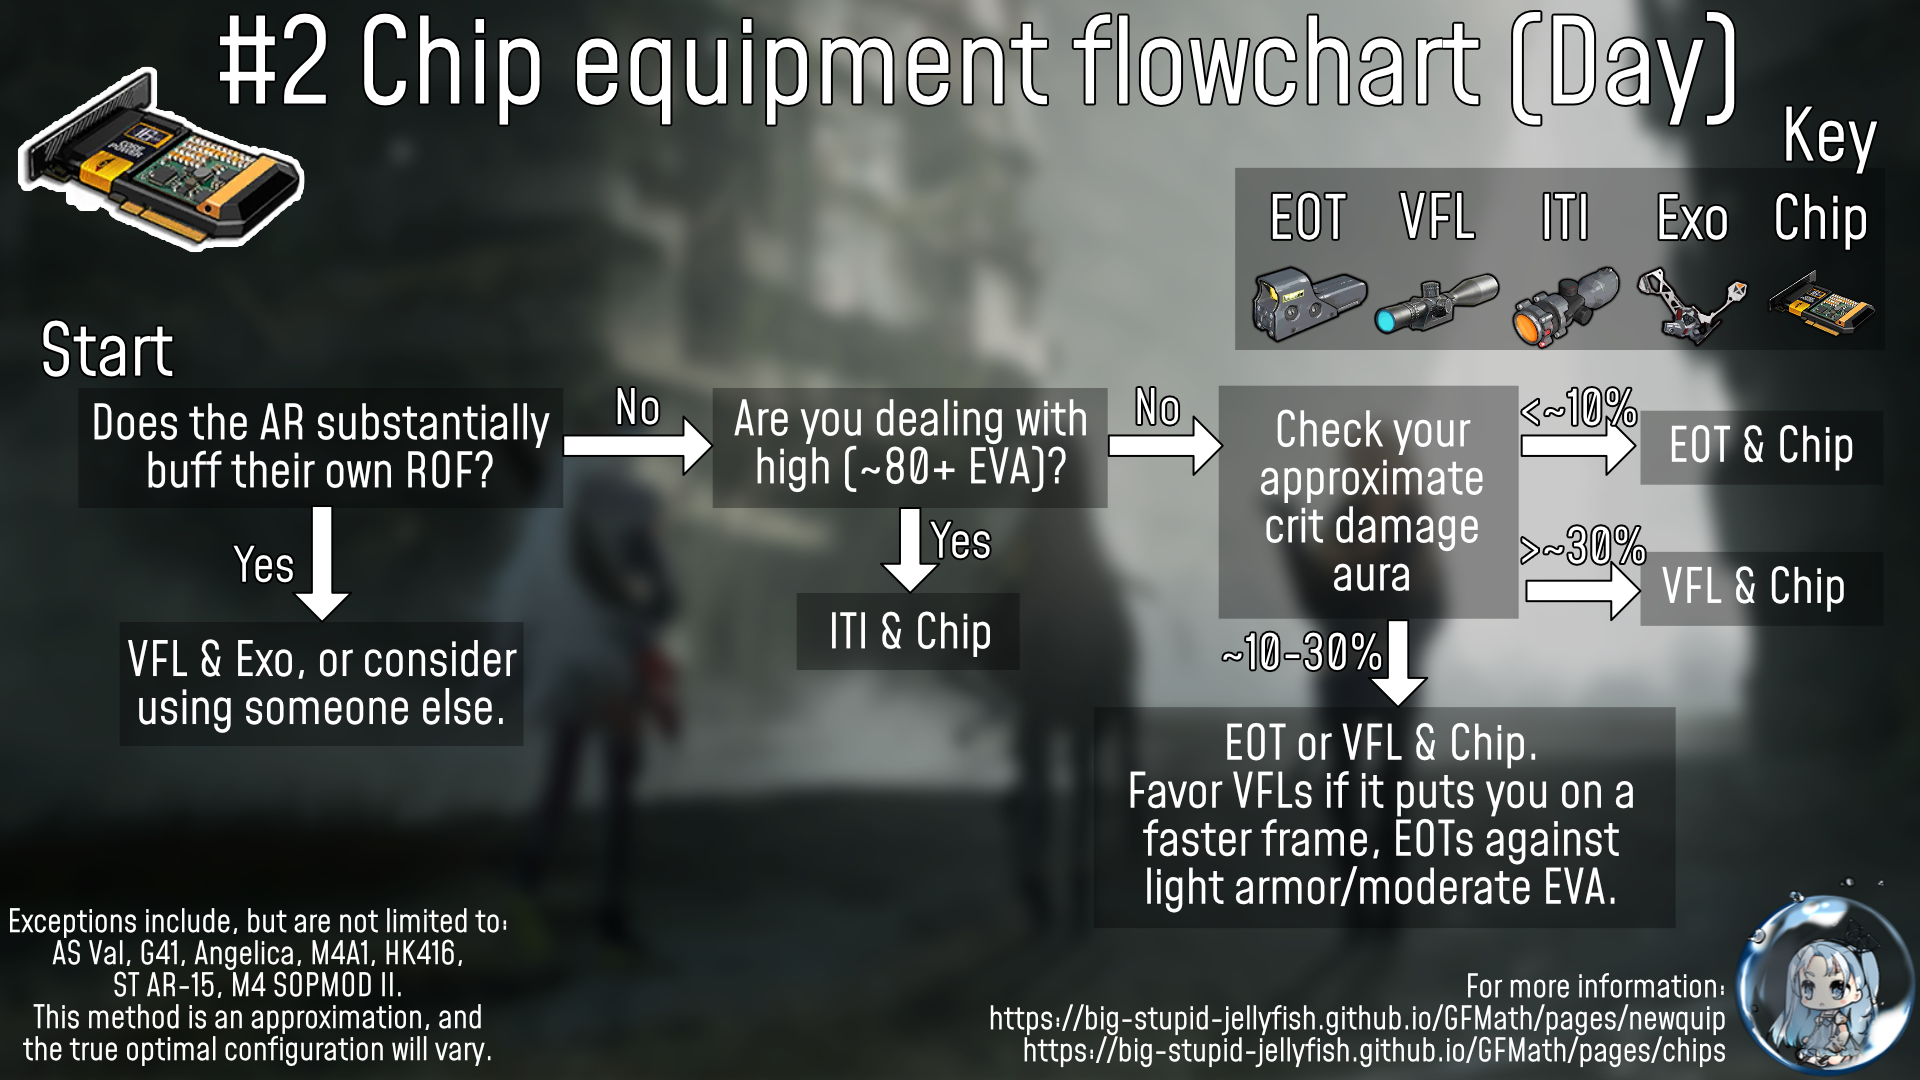
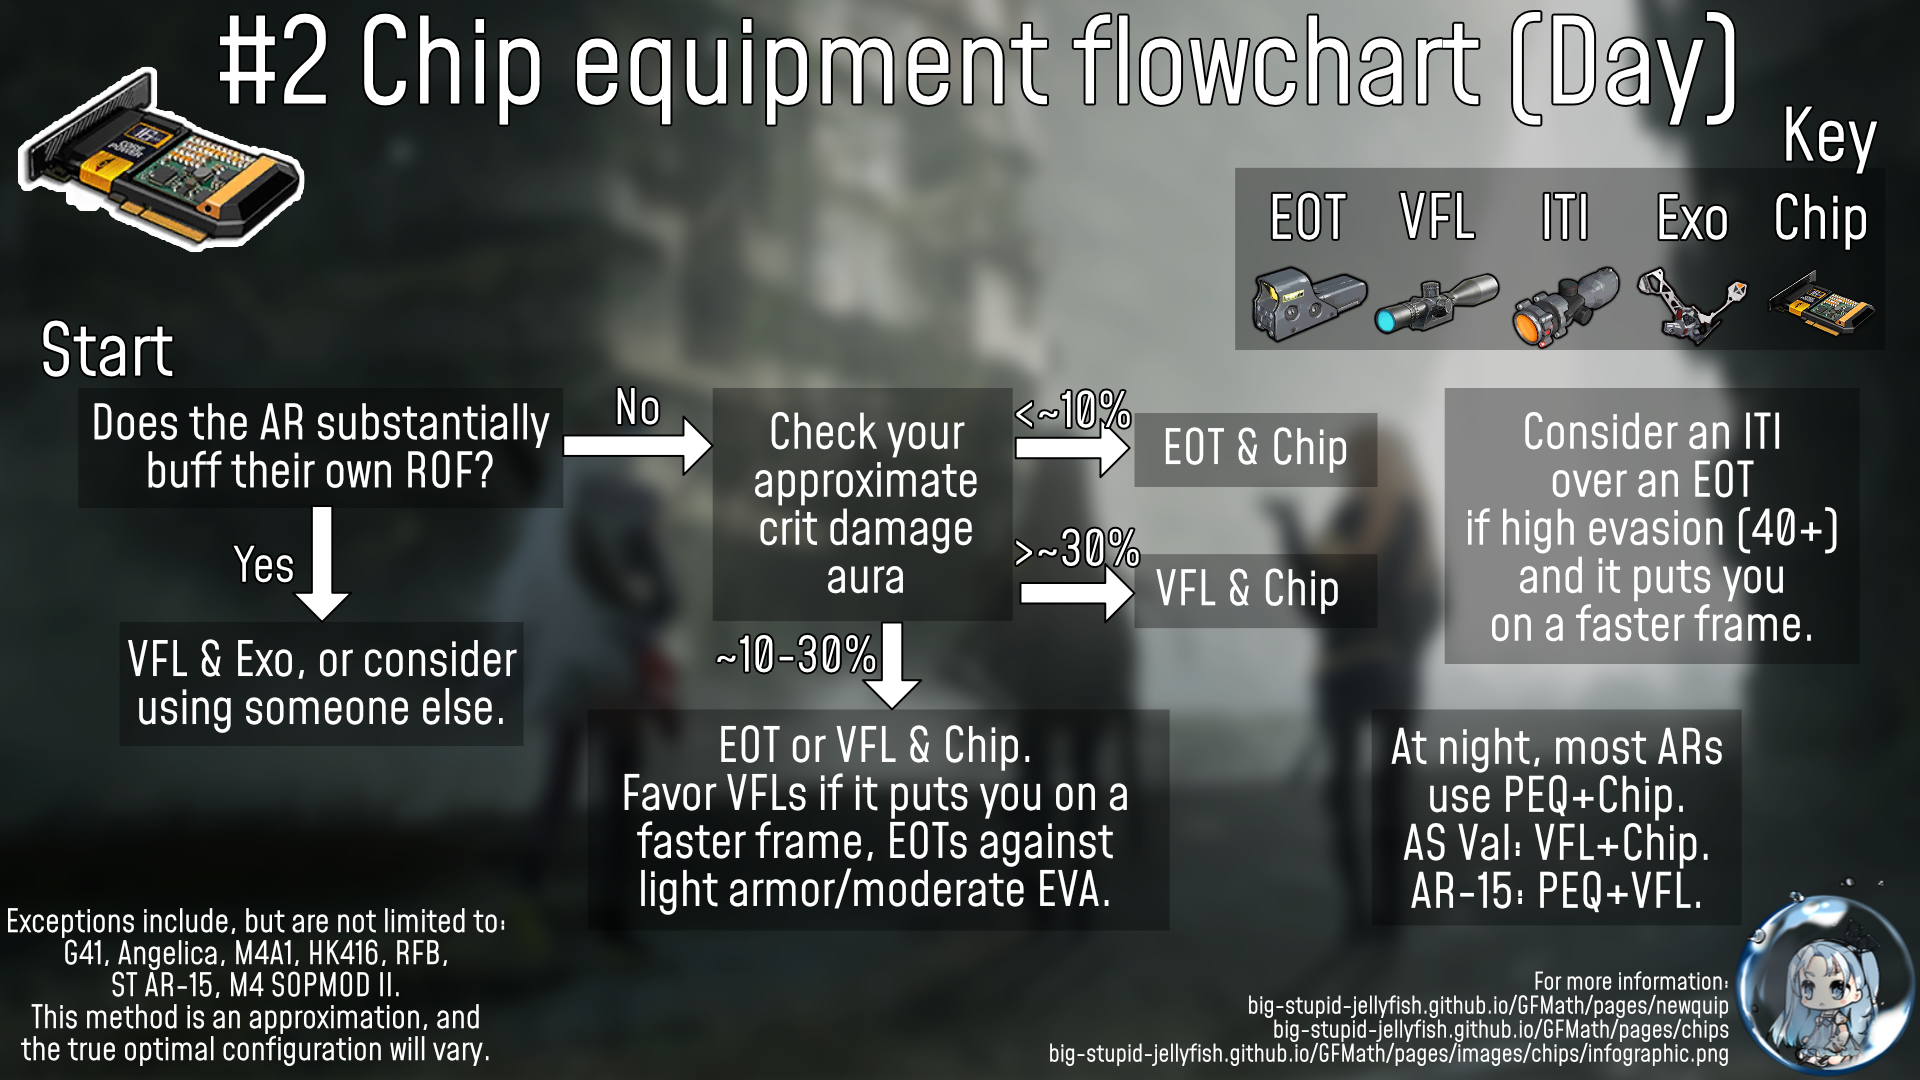
Routine updates

Changed region(s): [[0.3125, 0.3361, 0.9688, 0.8556], [0.0, 0.825, 0.25, 1.0], [0.5, 0.8861, 0.9062, 1.0]]

diff --git a/pages/2v3ar.html b/pages/2v3ar.html
@@ -112,7 +112,8 @@ In terms of 2AR+1HG vs 3AR backlines, there are a few matters of particular conc
 <p>In practice, it's entirely possible for the trends a damage simulator predicts to entirely disappear or even reverse.
 Experimental results are not covered here as there are simply too many variables involved in some sort of "general-use ARSMG" to get any broadly applicable results.
 There also are not many good ways to test multiple sequential battles.
-If you do want to see some tests I've done for various situations, I've <a href="2v3ar-extras"><strong>thrown them all on this extras page</strong></a>.</p>
+If you do want to see some tests I've done for various situations, I've <a href="2v3ar-extras"><strong>thrown them all on this extras page</strong></a>.
+In those tests, 3AR backlines usually outperformed 2AR1HG ones despite DPS simulators almost always assigning larger numbers to the 2AR1HG teams.</p>
 
 <p>
 	One interesting example here: coalition drills.
@@ -126,7 +127,7 @@ If you do want to see some tests I've done for various situations, I've <a href=
 </p>
 
 <p>To summarize: damage simulator numbers are generally not a good way to evaluate and compare echelons.
-While 2AR1HG lineups have bigger numbers on paper, it does not appear to translate into real performance in many scenarios.</p>
+While 2AR1HG lineups tend to have bigger numbers on paper, it does not appear to translate into real performance in many scenarios.</p>
 
 <h2 id="recommendation">General Recommendations<sup><small><a href="#recommendation">&#35;</a></small></sup></h2>
 

diff --git a/pages/tkb-408.html b/pages/tkb-408.html
@@ -139,6 +139,7 @@ Using uptime-averaged DPS or something similar has its own problems though as al
 <p>
 	So yes, it is.
 	Note that this barely below the expected increase for a PEQ+Chip compared to a PEQ/Exo on a normal selfbuffer - TKB does not crit much at night, so the critical damage component of her skill is rather minor.
+	The damage-over-time charts earlier were all done pre-chip, but dolls like OTs-14, AS Val, G41, and such can beneft as much or more from them so TKB's relative position isn't any better.
 </p>
 
 <h2 id="conclusion">Conclusion<sup><small><a href="#conclusion">&#35;</a></small></sup></h2>

diff --git a/pages/chips.html b/pages/chips.html
@@ -187,11 +187,8 @@ gtag('config', 'G-805N997DPC');
 <img src="images/chips/infographic.png" width="100%"/>
 </div>
 <p>
-	(Keep in mind that this is still a bit of an oversimplification.)
+	(Keep in mind that this is still a bit of an oversimplification. Crit rate tiles, accuracy/rof, armor, in- and out-of-skill variations, and so on can make a difference.)
 </p>
-<!-- <p>
-	<a href="images/newquip/val.png">AS Val prefers VFL/chip setups</a>.
-</p> -->
 
 <h2 id="iti">ITIs<sup><small><a href="#iti">&#35;</a></small></sup></h2>
 <p>
